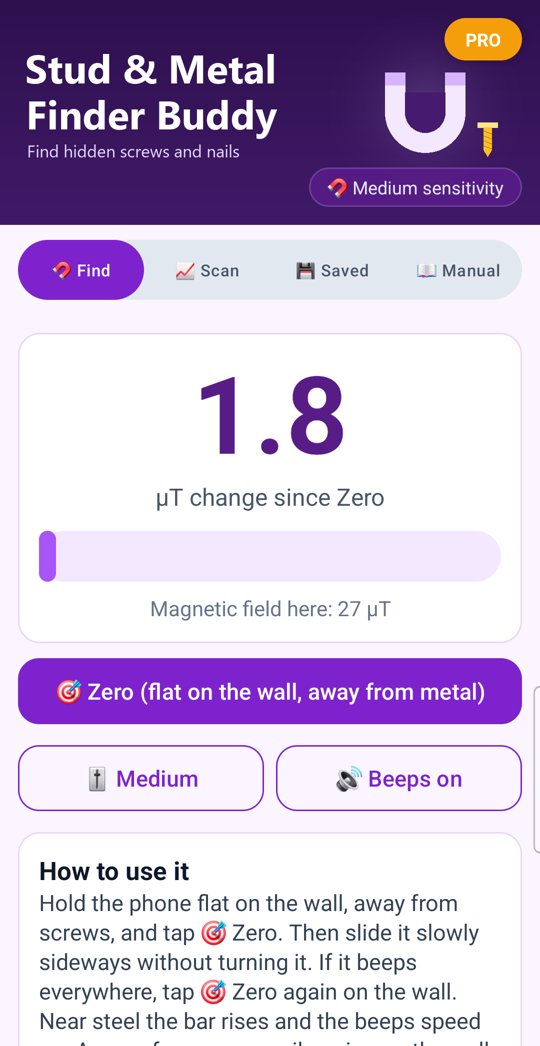
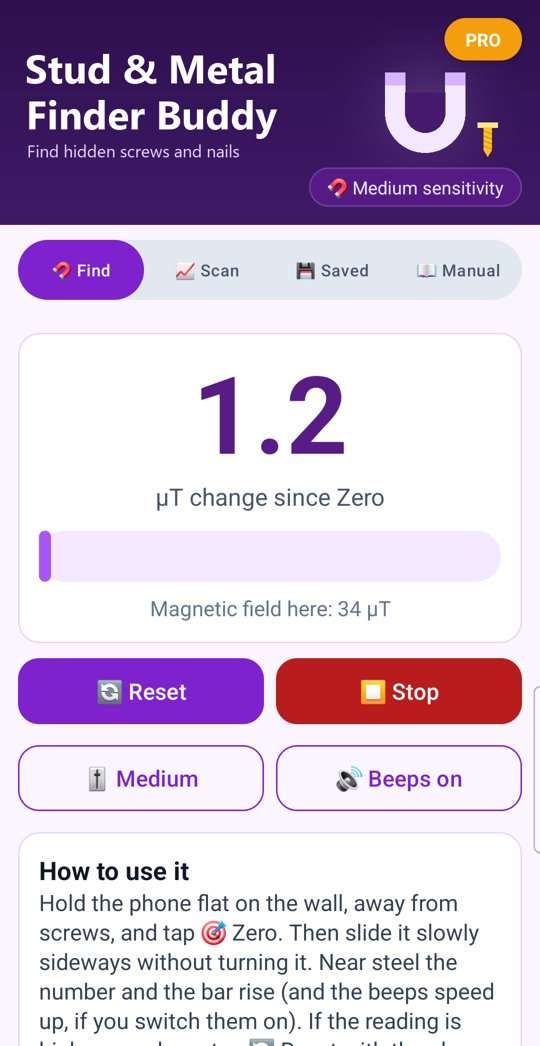
Add files via upload

diff --git a/stud-metal-finder-buddy/index.html b/stud-metal-finder-buddy/index.html
@@ -43,17 +43,26 @@
         <p>Your phone has a magnetic sensor (the one the compass uses). Iron and steel nearby bend the magnetic field, and the app shows how much the field has changed since you tapped 🎯 Zero, in microtesla (µT).</p>
         <p>It finds iron and steel: screws and nails in studs and joists, steel lintels, metal brackets and some steel pipes. It does not find wood, plastic, copper or aluminium.</p>
 
+        <h3>▶ Using it, start to finish</h3>
+        <p>1. When you open the app it waits: the reading shows 0.0, the sensor is off and nothing beeps.</p>
+        <p>2. Unplug the charger and take the phone out of any magnetic case (the app warns you if it's charging).</p>
+        <p>3. Hold the phone flat on the wall, away from screws and sockets, and tap 🎯 Zero. It switches the sensor on and takes about 2 seconds to zero: keep the phone still.</p>
+        <p>4. Slide the phone slowly along the wall without turning it. Near steel the number and the bar rise (and it beeps, if you switch beeps on). The screen stays on while you search.</p>
+        <p>5. If the reading drifts, or you turn the phone round, tap 🔄 Reset with the phone flat on the wall.</p>
+        <p>6. Tap ⏹ Stop when you've finished: the sensor switches off and the reading goes back to 0.0.</p>
+        <p>7. It also stops by itself when you leave the app, or if nothing is touched for 5 minutes, so a forgotten phone doesn't run the battery down.</p>
+
         <h3>⚠ Safety: cables</h3>
         <p>The app can't find live electrical cables: the copper wire inside isn't magnetic. Never rely on it alone before drilling.</p>
         <p>In the UK, cables in walls are usually run in "safe zones": straight up, down or across from sockets, switches and light fittings, and within 150 mm of the top of a wall and of wall corners. Avoid drilling in those places, check with a proper cable and pipe detector, and if in doubt ask an electrician.</p>
 
         <h3>🎯 Zero</h3>
-        <p>Hold the phone flat on the wall, screen towards you, the same way round you'll slide it, on a spot away from screws, nails and sockets, and tap 🎯 Zero. The app takes that as nothing nearby.</p>
-        <p>Zero on the wall, not in the air: tilting the phone changes the reading as much as a screw does, so a Zero taken in your hand makes it beep everywhere on the wall. If it beeps everywhere, tap 🎯 Zero again on the wall. Tap 🎯 Zero again too if the reading drifts, or after you turn the phone round.</p>
+        <p>Hold the phone flat on the wall, screen towards you, the same way round you'll slide it, on a spot away from screws, nails and sockets, and tap 🎯 Zero. The app takes that as nothing nearby. Until you tap 🎯 Zero the reading stays at 0.0 (also each time you come back to the app). While you search, 🔄 Reset zeroes again where the phone is, and ⏹ Stop ends the search: the reading goes back to 0.0 and nothing is read until the next 🎯 Zero.</p>
+        <p>Zero on the wall, not in the air: tilting the phone changes the reading as much as a screw does, so a Zero taken in your hand makes the reading high everywhere on the wall. If it's high everywhere, tap 🔄 Reset with the phone flat on the wall. Tap 🔄 Reset too if the reading drifts, or after you turn the phone round.</p>
         <p>Unplug the charger first: the charging current runs right past the sensor and makes the reading wander. Keep the phone away from magnetic cases, speakers and other phones.</p>
 
         <h3>🧲 Finding metal</h3>
-        <p>Hold the phone flat against the wall, screen towards you, and slide it slowly sideways without turning it. When the bar rises and the beeps speed up, go back and forth to find where the reading is highest: the metal is right behind that spot of the phone.</p>
+        <p>Hold the phone flat against the wall, screen towards you, and slide it slowly sideways without turning it. When the bar rises (and the beeps speed up, if they're on), go back and forth to find where the reading is highest: the metal is right behind that spot of the phone.</p>
         <p>The sensor is in one place inside the phone, often near the top. To find it, hold a screw or a key against the back of the phone and move it around: the reading jumps most over the sensor.</p>
 
         <h3>🪵 Finding studs</h3>
@@ -61,7 +70,7 @@
         <p>Find one fixing, then check above and below it in a straight line: a row of fixings means a stud. The next stud is usually 400 or 600 mm along. The sensor reaches about 2–3 cm into the wall, so it finds fixings just under the surface best.</p>
 
         <h3>🎚 Sensitivity and sound</h3>
-        <p>Low only reacts close to big steel; High reacts to small screws but also to more drift. Medium suits most walls. Tap 🔊 to switch the beeps on or off. The beeps start when the change goes over the sensitivity level and get faster as it rises.</p>
+        <p>Low only reacts close to big steel; High reacts to small screws but also to more drift. Medium suits most walls. Beeps are off at first: tap 🔇 Beeps off to switch them on, and 🔊 Beeps on to switch them off again. The beeps start when the change goes over the sensitivity level and get faster as it rises.</p>
 
         <h3>📈 Wall scan (Pro)</h3>
         <p>The 📈 Scan tab draws a graph of the change as you slide the phone along a wall. Each peak is a fixing. Tap ▶ Start, slide steadily, then ⏹ Stop. Save the scan with a note (for example "Hall, left wall, 1 m up") to look at it again later, or share all scans as a spreadsheet.</p>
@@ -76,7 +85,7 @@
         <p>Google Play handles the Pro purchase.</p>
 
         <h3>About</h3>
-        <p>Stud &amp; Metal Finder Buddy v1.0 (Build 1)</p>
+        <p>Stud &amp; Metal Finder Buddy v1.1 (Build 2)</p>
         <p>Publisher: AppStack Studio</p>
 
         <h3>⚡ WHY STUD &amp; METAL FINDER BUDDY</h3>

diff --git a/stud-metal-finder-buddy/support.html b/stud-metal-finder-buddy/support.html
@@ -46,10 +46,13 @@
             <h3>5. How deep does it see?</h3>
             <p>About 2–3 cm into a wall for a screw or nail; bigger steel (like a lintel) shows from further away.</p>
 
-            <h3>6. It beeps all the time.</h3>
-            <p>Tap 🎯 Zero again with the phone flat on the wall, away from screws: a Zero taken in the air or in your hand makes it beep everywhere on the wall, because tilting the phone changes the reading. If it still beeps, tap 🎚 for a lower sensitivity.</p>
+            <h3>6. The reading is high (or it beeps) all the time.</h3>
+            <p>Tap 🔄 Reset with the phone flat on the wall, away from screws: a Zero taken in the air or in your hand makes the reading high everywhere on the wall, because tilting the phone changes the reading. If it's still high, tap 🎚 for a lower sensitivity. Beeps are off until you switch them on.</p>
 
-            <h3>7. I bought Pro on another phone. How do I get it back?</h3>
+            <h3>7. How do I stop it?</h3>
+            <p>Tap ⏹ Stop: the reading goes back to 0.0 and nothing is read until you tap 🎯 Zero again. It also stops when you leave the app.</p>
+
+            <h3>8. I bought Pro on another phone. How do I get it back?</h3>
             <p>Use the same Google account, tap GO PRO at the top, then Restore purchase.</p>
         </div>
 
